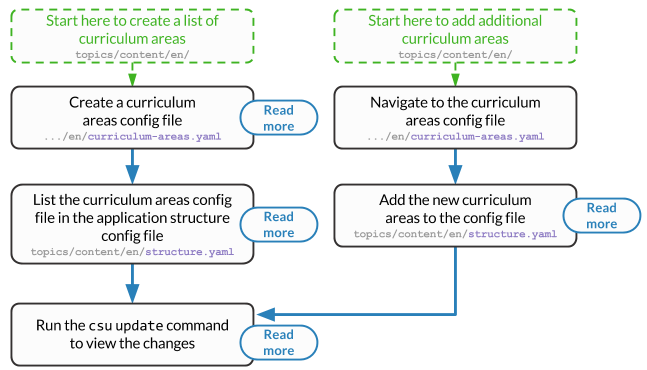
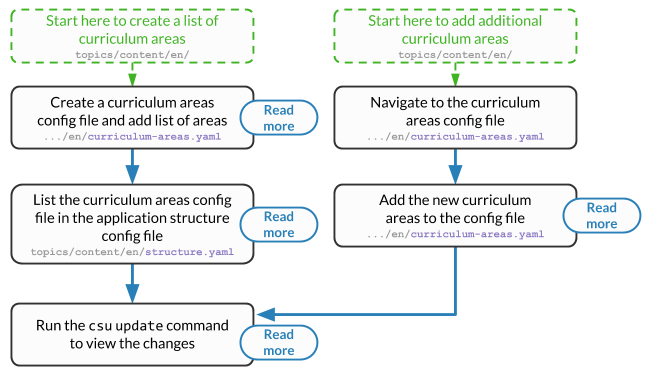
Updated the adding curriculum areas flowchart

diff --git a/docs/source/author/topics.rst b/docs/source/author/topics.rst
@@ -111,6 +111,11 @@ inside the locale specific directories.
 Adding Content
 ==============================================================================
 
+.. note ::
+  If you are adding content for a language other than english then wherever the directory
+  path ``topics/content/en/`` is used, replace ``en/`` with the relevant folder for that
+  language, e.g. ``de/``
+
 The following flow charts will take you step by step through the process of adding new
 content to the topics application. Below this section are full details on how to structure
 and write the configuration files for the topics application.
@@ -290,10 +295,12 @@ Adding Learning Outcomes
 
 There are two types of YAML files for Learning Outcomes.
 One is in ``topics/structure`` and is shared by all language folders.
-The other is unique to a language and is in ``topics/content/<language>``
-(e.g. ``content/en``)
+The other is the translation YAML file, which is unique to a language and is in
+``topics/content/<language>`` (e.g. ``content/en``)
 
-.. TODO(issue/749): Update diagram with step to add learning outcomes YAML translation file, and fix the coords
+There should only be one ``learning-outcomes.yaml`` file per language directory.
+If one already exists in the language directory then add new learning outcomes to this,
+rather than creating a new file.
 
 .. The following image can copied for be edits here: https://goo.gl/Vjv6XV
 .. The image is included as raw HTML because it has clickable nodes.
@@ -331,10 +338,6 @@ You will now be able to add learning outcomes to lessons and programming
 challenges by referencing the keys you specified in the learning outcomes configuration
 file.
 
-There should only be one ``learning-outcomes.yaml`` file per language directory.
-If one already exists in the language directory then add new learning outcomes to this,
-rather than creating a new file.
-
 .. note::
 
   If a learning outcome contains curriculum areas, then the curriculum areas
@@ -344,6 +347,10 @@ rather than creating a new file.
 
 Adding Curriculum Areas
 ------------------------------------------------------------------------------
+
+There should only be one ``curriculum-areas.yaml`` file per language directory.
+If one already exists in the language directory then add new curriculum areas to this,
+rather than creating a new file.
 
 .. TODO(issue/749): Update diagram with step to add curriculum areas YAML translation file.
 
@@ -382,10 +389,6 @@ You will now be able to add curriculum areas to learning outcomes and curriculum
 integrations by referencing the keys you specified in the curriculum areas
 configuration file.
 Only curriculum areas without any children can be added to items.
-
-There should only be one ``curriculum-areas.yaml`` file per language directory.
-If one already exists in the language directory then add new curriculum areas to this,
-rather than creating a new file.
 
 .. _adding-a-programming-challenge:
 
@@ -608,7 +611,7 @@ The translation YAML file containing difficulty descriptions:
     difficulty-2:
       name: Growing experience
 
-Adding a Programming Challenge Languages
+Adding Programming Challenge Languages
 ------------------------------------------------------------------------------
 
 .. TODO(issue/749): Add diagram for adding a programming challenge language.
@@ -779,7 +782,7 @@ Unit Plan Configuration File
 
   - **Optional Fields:**
 
-    - ``computational-thinking-links``: The Markdown filename containing
+    - ``computational-thinking-links:`` The Markdown filename containing
         Computational Thinking links.
 
 A complete unit plan structure file with multiple lessons may look like the
